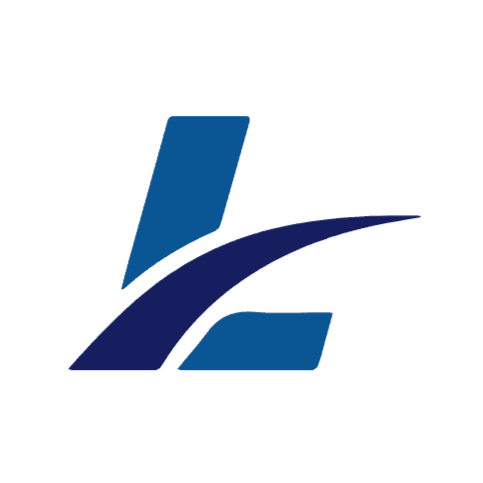
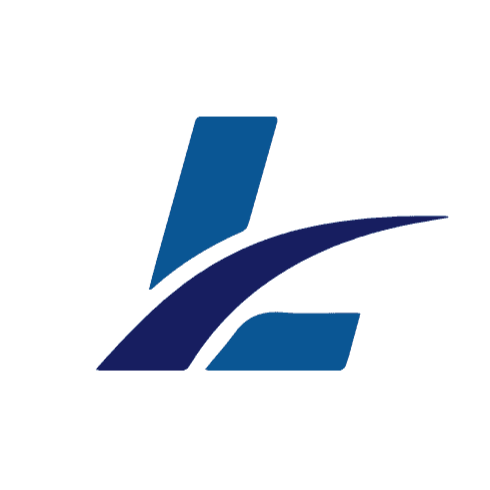
修正icon图片

Changed region(s): [[0.1242, 0.2174, 0.7453, 0.7764], [0.6832, 0.4348, 0.9317, 0.4969], [0.6211, 0.4348, 0.6832, 0.4658]]

diff --git a/public/authors/hugo-authors/index.html b/public/authors/hugo-authors/index.html
@@ -49,8 +49,8 @@
   integrity="sha384-atOyb0FxAgN9LyAc6PEf9BjgwLISyansgdH8/VXQH8p2o5vfrRgmGIJ2Sg22L0A0"  crossorigin></script>
 
 
-<link rel="icon" type="image/png" sizes="32x32" href="/images/icon_hu54bccf6cde444945bb1e08b3dec66778_7002_32x32_fill_box_center_3.png">
-<link rel="apple-touch-icon" sizes="180x180" href="/images/icon_hu54bccf6cde444945bb1e08b3dec66778_7002_180x180_fill_box_center_3.png">
+<link rel="icon" type="image/png" sizes="32x32" href="/images/icon_hu58763bbc24a761d5dd824d188253e734_6825_32x32_fill_box_center_3.png">
+<link rel="apple-touch-icon" sizes="180x180" href="/images/icon_hu58763bbc24a761d5dd824d188253e734_6825_180x180_fill_box_center_3.png">
 
 <meta name="description"
   content="Vestibulum vel arcu Donec interdum justo sed posuere imperdiet. Quisque nec mauris eu erat mattis egestas in vitae nisl. Sed nisl augue, congue sed quam quis, tempor tempus nibh. Pellentesque accumsan in quam a interdum. Morbi iaculis venenatis lacinia. Mauris quis nisl vitae nisi mollis placerat id vel ligula. Integer vitae arcu ac leo iaculis rhoncus id vitae dolor. Fusce quis nisl tincidunt, vulputate dolor quis, mollis massa. Donec congue velit at risus cursus, eu auctor dolor rhoncus.">

diff --git a/public/docs/g613/gcorev3doc/index.html b/public/docs/g613/gcorev3doc/index.html
@@ -49,8 +49,8 @@
   integrity="sha384-atOyb0FxAgN9LyAc6PEf9BjgwLISyansgdH8/VXQH8p2o5vfrRgmGIJ2Sg22L0A0"  crossorigin></script>
 
 
-<link rel="icon" type="image/png" sizes="32x32" href="/images/icon_hu54bccf6cde444945bb1e08b3dec66778_7002_32x32_fill_box_center_3.png">
-<link rel="apple-touch-icon" sizes="180x180" href="/images/icon_hu54bccf6cde444945bb1e08b3dec66778_7002_180x180_fill_box_center_3.png">
+<link rel="icon" type="image/png" sizes="32x32" href="/images/icon_hu58763bbc24a761d5dd824d188253e734_6825_32x32_fill_box_center_3.png">
+<link rel="apple-touch-icon" sizes="180x180" href="/images/icon_hu58763bbc24a761d5dd824d188253e734_6825_180x180_fill_box_center_3.png">
 
 <meta name="description"
   content="说明Gcore-V3主控转接小板的功能、使用以及元件焊接。">

diff --git a/public/docs/modules/rgbcore/index.html b/public/docs/modules/rgbcore/index.html
@@ -49,8 +49,8 @@
   integrity="sha384-atOyb0FxAgN9LyAc6PEf9BjgwLISyansgdH8/VXQH8p2o5vfrRgmGIJ2Sg22L0A0"  crossorigin></script>
 
 
-<link rel="icon" type="image/png" sizes="32x32" href="/images/icon_hu54bccf6cde444945bb1e08b3dec66778_7002_32x32_fill_box_center_3.png">
-<link rel="apple-touch-icon" sizes="180x180" href="/images/icon_hu54bccf6cde444945bb1e08b3dec66778_7002_180x180_fill_box_center_3.png">
+<link rel="icon" type="image/png" sizes="32x32" href="/images/icon_hu58763bbc24a761d5dd824d188253e734_6825_32x32_fill_box_center_3.png">
+<link rel="apple-touch-icon" sizes="180x180" href="/images/icon_hu58763bbc24a761d5dd824d188253e734_6825_180x180_fill_box_center_3.png">
 
 <meta name="description"
   content="说明WS2812-RGB灯珠控制芯片的功能、使用以及PCB集成。">

diff --git a/public/product/keytoknob/index.html b/public/product/keytoknob/index.html
@@ -49,8 +49,8 @@
   integrity="sha384-atOyb0FxAgN9LyAc6PEf9BjgwLISyansgdH8/VXQH8p2o5vfrRgmGIJ2Sg22L0A0"  crossorigin></script>
 
 
-<link rel="icon" type="image/png" sizes="32x32" href="/images/icon_hu54bccf6cde444945bb1e08b3dec66778_7002_32x32_fill_box_center_3.png">
-<link rel="apple-touch-icon" sizes="180x180" href="/images/icon_hu54bccf6cde444945bb1e08b3dec66778_7002_180x180_fill_box_center_3.png">
+<link rel="icon" type="image/png" sizes="32x32" href="/images/icon_hu58763bbc24a761d5dd824d188253e734_6825_32x32_fill_box_center_3.png">
+<link rel="apple-touch-icon" sizes="180x180" href="/images/icon_hu58763bbc24a761d5dd824d188253e734_6825_180x180_fill_box_center_3.png">
 
 <meta name="description"
   content="关于该模块的更多信息请见：按键转旋钮模块">

diff --git a/public/docs/g613/index.html b/public/docs/g613/index.html
@@ -49,8 +49,8 @@
   integrity="sha384-atOyb0FxAgN9LyAc6PEf9BjgwLISyansgdH8/VXQH8p2o5vfrRgmGIJ2Sg22L0A0"  crossorigin></script>
 
 
-<link rel="icon" type="image/png" sizes="32x32" href="/images/icon_hu54bccf6cde444945bb1e08b3dec66778_7002_32x32_fill_box_center_3.png">
-<link rel="apple-touch-icon" sizes="180x180" href="/images/icon_hu54bccf6cde444945bb1e08b3dec66778_7002_180x180_fill_box_center_3.png">
+<link rel="icon" type="image/png" sizes="32x32" href="/images/icon_hu58763bbc24a761d5dd824d188253e734_6825_32x32_fill_box_center_3.png">
+<link rel="apple-touch-icon" sizes="180x180" href="/images/icon_hu58763bbc24a761d5dd824d188253e734_6825_180x180_fill_box_center_3.png">
 
 <meta name="description"
   content="G613系列产品的相关文档可以从这里寻找。">

diff --git a/public/docs/modules/index.html b/public/docs/modules/index.html
@@ -49,8 +49,8 @@
   integrity="sha384-atOyb0FxAgN9LyAc6PEf9BjgwLISyansgdH8/VXQH8p2o5vfrRgmGIJ2Sg22L0A0"  crossorigin></script>
 
 
-<link rel="icon" type="image/png" sizes="32x32" href="/images/icon_hu54bccf6cde444945bb1e08b3dec66778_7002_32x32_fill_box_center_3.png">
-<link rel="apple-touch-icon" sizes="180x180" href="/images/icon_hu54bccf6cde444945bb1e08b3dec66778_7002_180x180_fill_box_center_3.png">
+<link rel="icon" type="image/png" sizes="32x32" href="/images/icon_hu58763bbc24a761d5dd824d188253e734_6825_32x32_fill_box_center_3.png">
+<link rel="apple-touch-icon" sizes="180x180" href="/images/icon_hu58763bbc24a761d5dd824d188253e734_6825_180x180_fill_box_center_3.png">
 
 <meta name="description"
   content="各模块产品的相关文档可以从这里寻找。">

diff --git a/public/product/gik87/index.html b/public/product/gik87/index.html
@@ -49,8 +49,8 @@
   integrity="sha384-atOyb0FxAgN9LyAc6PEf9BjgwLISyansgdH8/VXQH8p2o5vfrRgmGIJ2Sg22L0A0"  crossorigin></script>
 
 
-<link rel="icon" type="image/png" sizes="32x32" href="/images/icon_hu54bccf6cde444945bb1e08b3dec66778_7002_32x32_fill_box_center_3.png">
-<link rel="apple-touch-icon" sizes="180x180" href="/images/icon_hu54bccf6cde444945bb1e08b3dec66778_7002_180x180_fill_box_center_3.png">
+<link rel="icon" type="image/png" sizes="32x32" href="/images/icon_hu58763bbc24a761d5dd824d188253e734_6825_32x32_fill_box_center_3.png">
+<link rel="apple-touch-icon" sizes="180x180" href="/images/icon_hu58763bbc24a761d5dd824d188253e734_6825_180x180_fill_box_center_3.png">
 
 <meta name="description"
   content="基于GcoreV2改造的G613主控无线游戏键盘。">

diff --git a/public/404.html b/public/404.html
@@ -49,8 +49,8 @@
   integrity="sha384-atOyb0FxAgN9LyAc6PEf9BjgwLISyansgdH8/VXQH8p2o5vfrRgmGIJ2Sg22L0A0"  crossorigin></script>
 
 
-<link rel="icon" type="image/png" sizes="32x32" href="/images/icon_hu54bccf6cde444945bb1e08b3dec66778_7002_32x32_fill_box_center_3.png">
-<link rel="apple-touch-icon" sizes="180x180" href="/images/icon_hu54bccf6cde444945bb1e08b3dec66778_7002_180x180_fill_box_center_3.png">
+<link rel="icon" type="image/png" sizes="32x32" href="/images/icon_hu58763bbc24a761d5dd824d188253e734_6825_32x32_fill_box_center_3.png">
+<link rel="apple-touch-icon" sizes="180x180" href="/images/icon_hu58763bbc24a761d5dd824d188253e734_6825_180x180_fill_box_center_3.png">
 
 <meta name="description"
   content="Eureka is a elegant and powerful theme for Hugo.">

diff --git a/public/authors/index.html b/public/authors/index.html
@@ -49,8 +49,8 @@
   integrity="sha384-atOyb0FxAgN9LyAc6PEf9BjgwLISyansgdH8/VXQH8p2o5vfrRgmGIJ2Sg22L0A0"  crossorigin></script>
 
 
-<link rel="icon" type="image/png" sizes="32x32" href="/images/icon_hu54bccf6cde444945bb1e08b3dec66778_7002_32x32_fill_box_center_3.png">
-<link rel="apple-touch-icon" sizes="180x180" href="/images/icon_hu54bccf6cde444945bb1e08b3dec66778_7002_180x180_fill_box_center_3.png">
+<link rel="icon" type="image/png" sizes="32x32" href="/images/icon_hu58763bbc24a761d5dd824d188253e734_6825_32x32_fill_box_center_3.png">
+<link rel="apple-touch-icon" sizes="180x180" href="/images/icon_hu58763bbc24a761d5dd824d188253e734_6825_180x180_fill_box_center_3.png">
 
 <meta name="description"
   content="Eureka is a elegant and powerful theme for Hugo.">

diff --git a/public/authors/sixsixfish/index.html b/public/authors/sixsixfish/index.html
@@ -49,8 +49,8 @@
   integrity="sha384-atOyb0FxAgN9LyAc6PEf9BjgwLISyansgdH8/VXQH8p2o5vfrRgmGIJ2Sg22L0A0"  crossorigin></script>
 
 
-<link rel="icon" type="image/png" sizes="32x32" href="/images/icon_hu54bccf6cde444945bb1e08b3dec66778_7002_32x32_fill_box_center_3.png">
-<link rel="apple-touch-icon" sizes="180x180" href="/images/icon_hu54bccf6cde444945bb1e08b3dec66778_7002_180x180_fill_box_center_3.png">
+<link rel="icon" type="image/png" sizes="32x32" href="/images/icon_hu58763bbc24a761d5dd824d188253e734_6825_32x32_fill_box_center_3.png">
+<link rel="apple-touch-icon" sizes="180x180" href="/images/icon_hu58763bbc24a761d5dd824d188253e734_6825_180x180_fill_box_center_3.png">
 
 <meta name="description"
   content="Eureka is a elegant and powerful theme for Hugo.">

diff --git a/public/authors/sixsixfish/page/2/index.html b/public/authors/sixsixfish/page/2/index.html
@@ -49,8 +49,8 @@
   integrity="sha384-atOyb0FxAgN9LyAc6PEf9BjgwLISyansgdH8/VXQH8p2o5vfrRgmGIJ2Sg22L0A0"  crossorigin></script>
 
 
-<link rel="icon" type="image/png" sizes="32x32" href="/images/icon_hu54bccf6cde444945bb1e08b3dec66778_7002_32x32_fill_box_center_3.png">
-<link rel="apple-touch-icon" sizes="180x180" href="/images/icon_hu54bccf6cde444945bb1e08b3dec66778_7002_180x180_fill_box_center_3.png">
+<link rel="icon" type="image/png" sizes="32x32" href="/images/icon_hu58763bbc24a761d5dd824d188253e734_6825_32x32_fill_box_center_3.png">
+<link rel="apple-touch-icon" sizes="180x180" href="/images/icon_hu58763bbc24a761d5dd824d188253e734_6825_180x180_fill_box_center_3.png">
 
 <meta name="description"
   content="Eureka is a elegant and powerful theme for Hugo.">

diff --git a/public/authors/六6鱼/index.html b/public/authors/六6鱼/index.html
@@ -49,8 +49,8 @@
   integrity="sha384-atOyb0FxAgN9LyAc6PEf9BjgwLISyansgdH8/VXQH8p2o5vfrRgmGIJ2Sg22L0A0"  crossorigin></script>
 
 
-<link rel="icon" type="image/png" sizes="32x32" href="/images/icon_hu54bccf6cde444945bb1e08b3dec66778_7002_32x32_fill_box_center_3.png">
-<link rel="apple-touch-icon" sizes="180x180" href="/images/icon_hu54bccf6cde444945bb1e08b3dec66778_7002_180x180_fill_box_center_3.png">
+<link rel="icon" type="image/png" sizes="32x32" href="/images/icon_hu58763bbc24a761d5dd824d188253e734_6825_32x32_fill_box_center_3.png">
+<link rel="apple-touch-icon" sizes="180x180" href="/images/icon_hu58763bbc24a761d5dd824d188253e734_6825_180x180_fill_box_center_3.png">
 
 <meta name="description"
   content="Eureka is a elegant and powerful theme for Hugo.">
